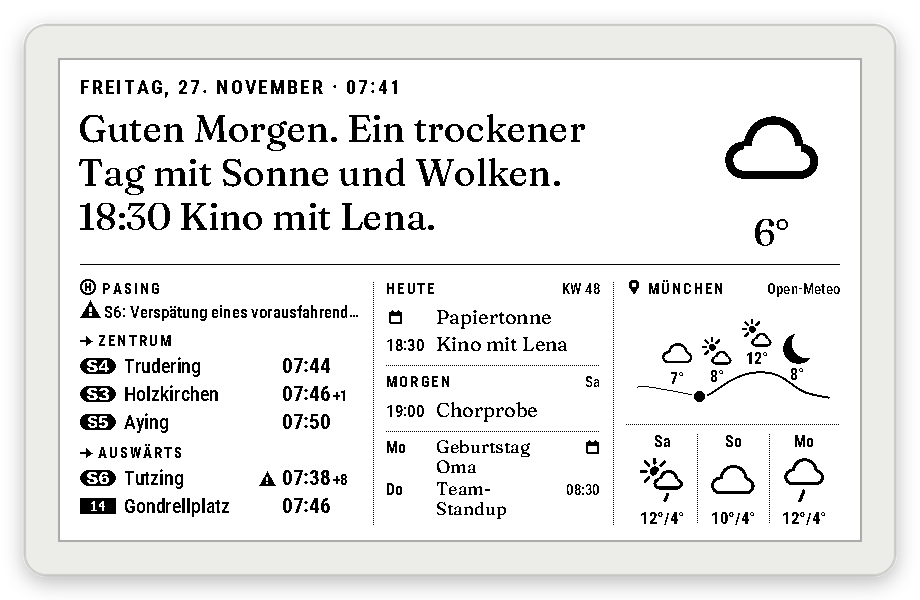
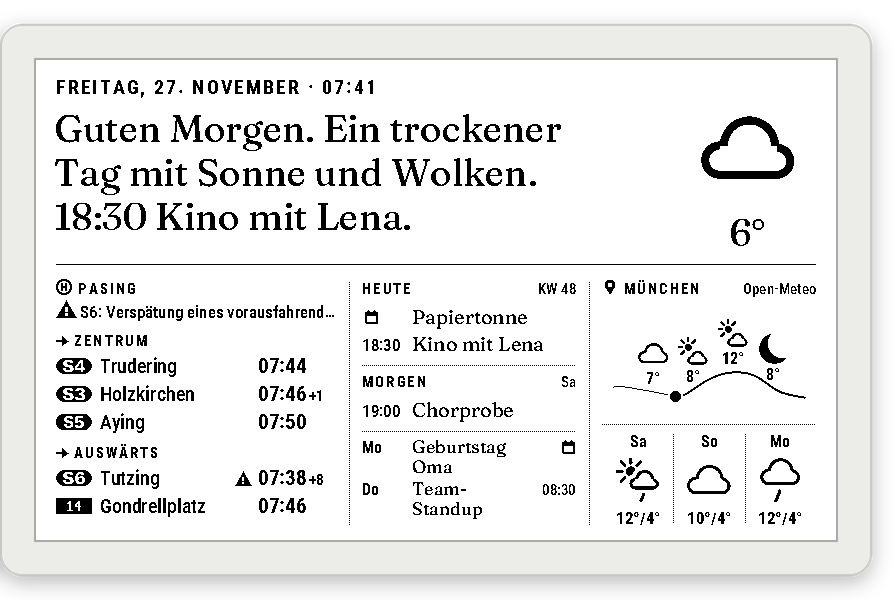
docs: add a photo of the display to the README
Show the display on its stand next to the introduction and move the
install line up beside it. frame_screen.py now puts the frame on the
outer edge of each screen picture, so both line up with the text and
the photo.

diff --git a/tools/frame_screen.py b/tools/frame_screen.py
@@ -6,7 +6,11 @@ Takes the reference images test/fixtures/ui/sim_briefing_morning.png
 (German) and sim_briefing_morning_en.png (the same morning in English; the
 whole screen in the simulation, see test/test_app_simulation) and puts a
 light frame with rounded corners and a soft shadow around each, so that it
-looks like a display. Run it after a reference image has changed:
+looks like a display. The frame touches the outer edge of the picture (left
+for German, right for English) and has a transparent gap on the inner side:
+the README puts both side by side at 50 % without a space, so their outer
+edges line up with the text and the photo above. Run it after a reference
+image has changed:
 
     pip install -r tools/fontgen/requirements.txt
     python tools/frame_screen.py
@@ -21,13 +25,14 @@ from PIL import Image, ImageDraw, ImageFilter
 ROOT = pathlib.Path(__file__).resolve().parent.parent
 FIXTURES = ROOT / "test" / "fixtures" / "ui"
 IMAGES = ROOT / "docs" / "images"
-PICTURES = [  # (reference image, picture for the README)
-    (FIXTURES / "sim_briefing_morning.png", IMAGES / "screen-de.png"),
-    (FIXTURES / "sim_briefing_morning_en.png", IMAGES / "screen-en.png"),
+PICTURES = [  # (reference image, picture for the README, side of the gap)
+    (FIXTURES / "sim_briefing_morning.png", IMAGES / "screen-de.png", "right"),
+    (FIXTURES / "sim_briefing_morning_en.png", IMAGES / "screen-en.png", "left"),
 ]
 
 SCALE = 4  # drawn larger and scaled down, for smooth corners
-PAD = 24  # room for the shadow
+PAD = 24  # room for the shadow above and below
+GAP = 24  # transparent room on the inner side (half the gap between both)
 BEZEL = 36  # width of the frame around the screen
 RADIUS = 22  # corners of the frame
 BODY = (236, 236, 232, 255)  # light grey, like a case of light filament
@@ -36,40 +41,42 @@ INNER = (170, 170, 168, 255)  # thin line around the screen
 SHADOW = (0, 0, 0, 70)
 
 
-def frame(source, target):
+def frame(source, target, gap_side):
     screen = Image.open(source).convert("RGB")
     w, h = screen.size
-    width, height = w + 2 * (BEZEL + PAD), h + 2 * (BEZEL + PAD)
+    left = GAP if gap_side == "left" else 0  # x of the frame in the picture
+    framed = w + 2 * BEZEL  # width of the frame
+    width, height = framed + GAP, h + 2 * (BEZEL + PAD)
     s = SCALE
     big = Image.new("RGBA", (width * s, height * s), (0, 0, 0, 0))
 
     shadow = Image.new("RGBA", big.size, (0, 0, 0, 0))
     ImageDraw.Draw(shadow).rounded_rectangle(
-        [PAD * s, (PAD + 6) * s, (width - PAD) * s, (height - PAD + 6) * s], RADIUS * s, fill=SHADOW
+        [left * s, (PAD + 6) * s, (left + framed) * s, (height - PAD + 6) * s], RADIUS * s, fill=SHADOW
     )
     big = Image.alpha_composite(big, shadow.filter(ImageFilter.GaussianBlur(10 * s)))
 
     draw = ImageDraw.Draw(big)
     draw.rounded_rectangle(
-        [PAD * s, PAD * s, (width - PAD) * s - 1, (height - PAD) * s - 1],
+        [left * s, PAD * s, (left + framed) * s - 1, (height - PAD) * s - 1],
         RADIUS * s,
         fill=BODY,
         outline=EDGE,
         width=2 * s,
     )
-    x0 = y0 = (PAD + BEZEL) * s
+    x0, y0 = (left + BEZEL) * s, (PAD + BEZEL) * s
     draw.rectangle([x0 - 2 * s, y0 - 2 * s, x0 + (w + 2) * s - 1, y0 + (h + 2) * s - 1], fill=INNER)
 
     out = big.resize((width, height), Image.LANCZOS)
-    out.paste(screen, (PAD + BEZEL, PAD + BEZEL))
+    out.paste(screen, (left + BEZEL, PAD + BEZEL))
     target.parent.mkdir(parents=True, exist_ok=True)
     out.save(target, optimize=True)
     print(f"frame_screen: wrote {target.relative_to(ROOT)} ({width} x {height})")
 
 
 def main():
-    for source, target in PICTURES:
-        frame(source, target)
+    for source, target, gap_side in PICTURES:
+        frame(source, target, gap_side)
 
 
 if __name__ == "__main__":

diff --git a/README.md b/README.md
@@ -5,6 +5,8 @@
   </picture>
 </p>
 
+<img align="right" width="50%" alt="InkTavla on its 3D-printed stand, showing departures, calendar and weather" src="docs/images/display.png">
+
 InkTavla is a firmware for a 7.5" e-paper display that shows the day at a
 glance: the next departures of your station in Munich (or elsewhere in
 Bavaria), the weather and your calendar, below a short sentence that sums
@@ -12,16 +14,13 @@ them up ("Guten Morgen. Mal Sonne, mal Wolken, bis 12°. Heute um 18:30: Kino
 mit Lena."). Everything runs on the display itself; no server, no account, no app. It is set up in the
 browser of your phone or computer.
 
-<!-- Photo of the display: docs/images/display.png (to be added) -->
-
-<p align="center">
-  <img alt="The screen of InkTavla in German: departures, calendar and weather below the band with date, time and a sentence" src="docs/images/screen-de.png" width="49%">
-  <img alt="The same screen in English" src="docs/images/screen-en.png" width="49%">
-</p>
-<p align="center"><sub>The same morning in German and in English (setting <code>language</code>).</sub></p>
-
 **Install: <https://fluddel94.github.io/InkTavla/>** (Chrome, Edge or
 Firefox 151 or later, on a computer)
+
+<p align="center">
+  <img alt="The screen of InkTavla in German: departures, calendar and weather below the band with date, time and a sentence" src="docs/images/screen-de.png" width="50%"><img alt="The same screen in English" src="docs/images/screen-en.png" width="50%">
+</p>
+<p align="center"><sub>The same morning in German and in English (setting <code>language</code>).</sub></p>
 
 ## What you need
 

diff --git a/docs/images/README.md b/docs/images/README.md
@@ -4,7 +4,8 @@ The InkTavla logo (`logo.png`, black, and `logo-white.png`, white for dark
 backgrounds) is Copyright (C) 2026 Fluddel94 and licensed under
 [CC BY-NC-SA 4.0](https://creativecommons.org/licenses/by-nc-sa/4.0/)
 (full text in [LICENSE](LICENSE)), not under the GPL of the software.
-Photos of the display will be added here under the same license.
+The photo of the display on its 3D-printed stand
+(`display.png`) is under the same license.
 
 `screen-de.png` and `screen-en.png` are pictures of the screen of the
 firmware in German and English (the reference images
